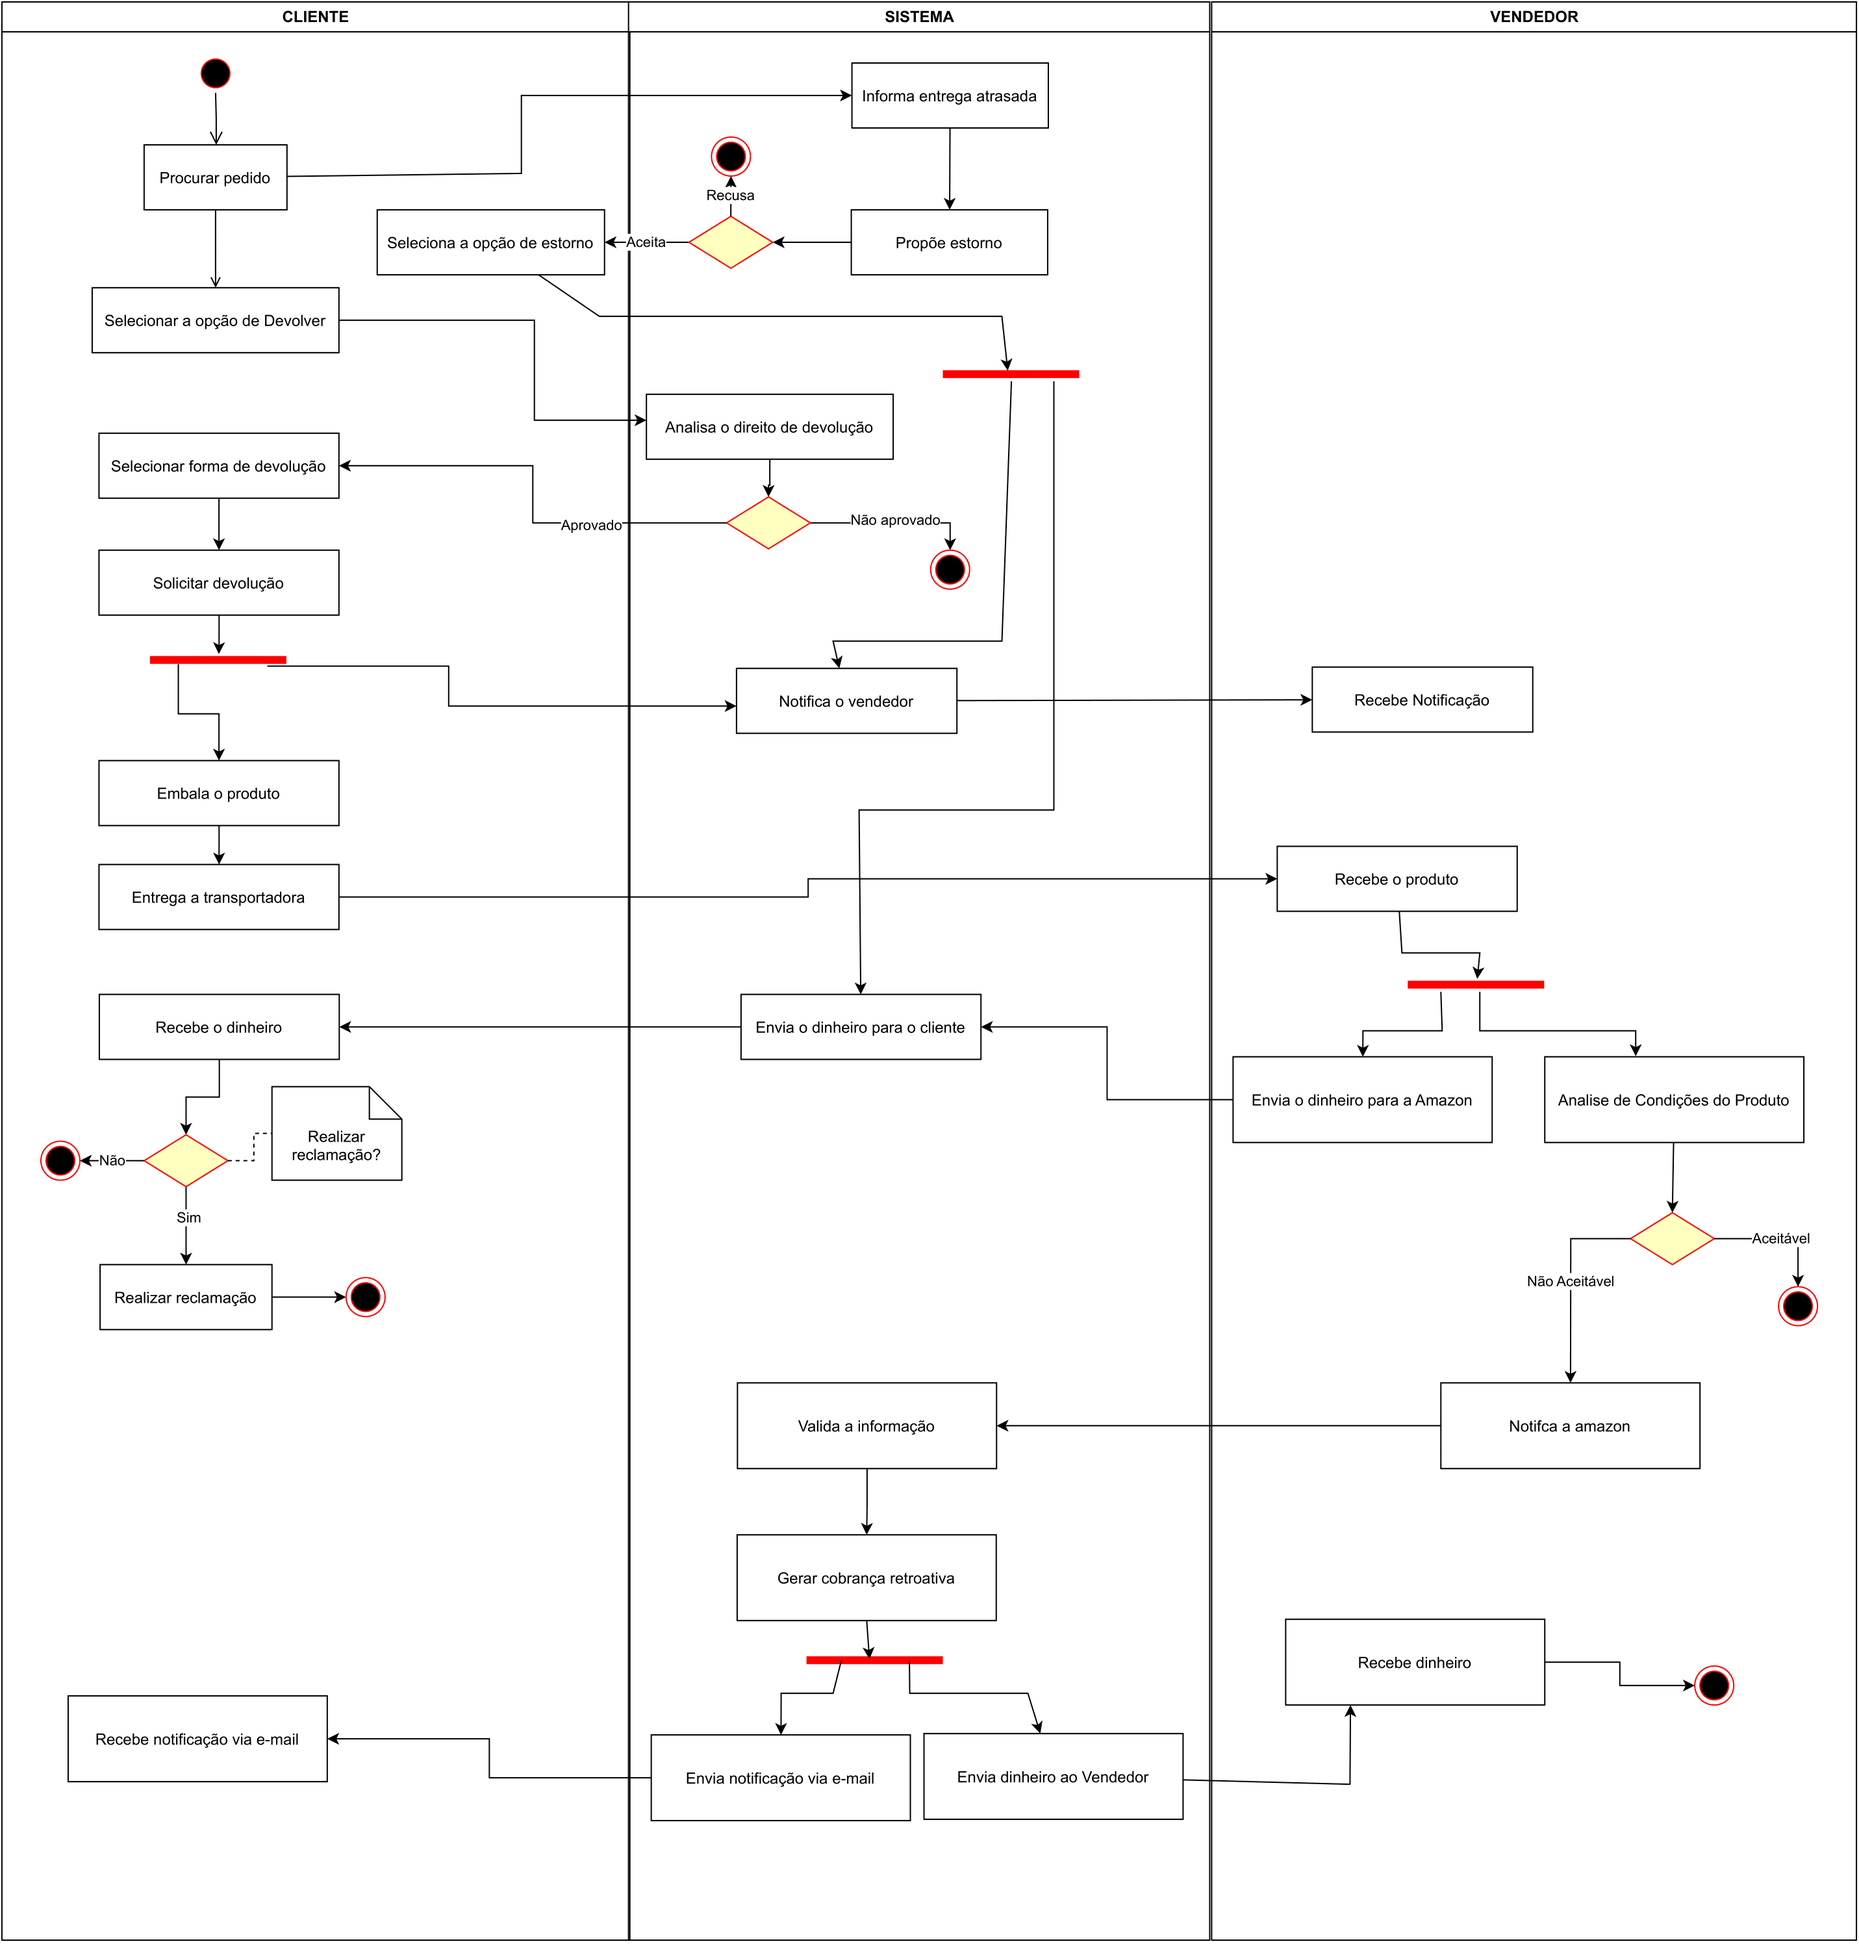
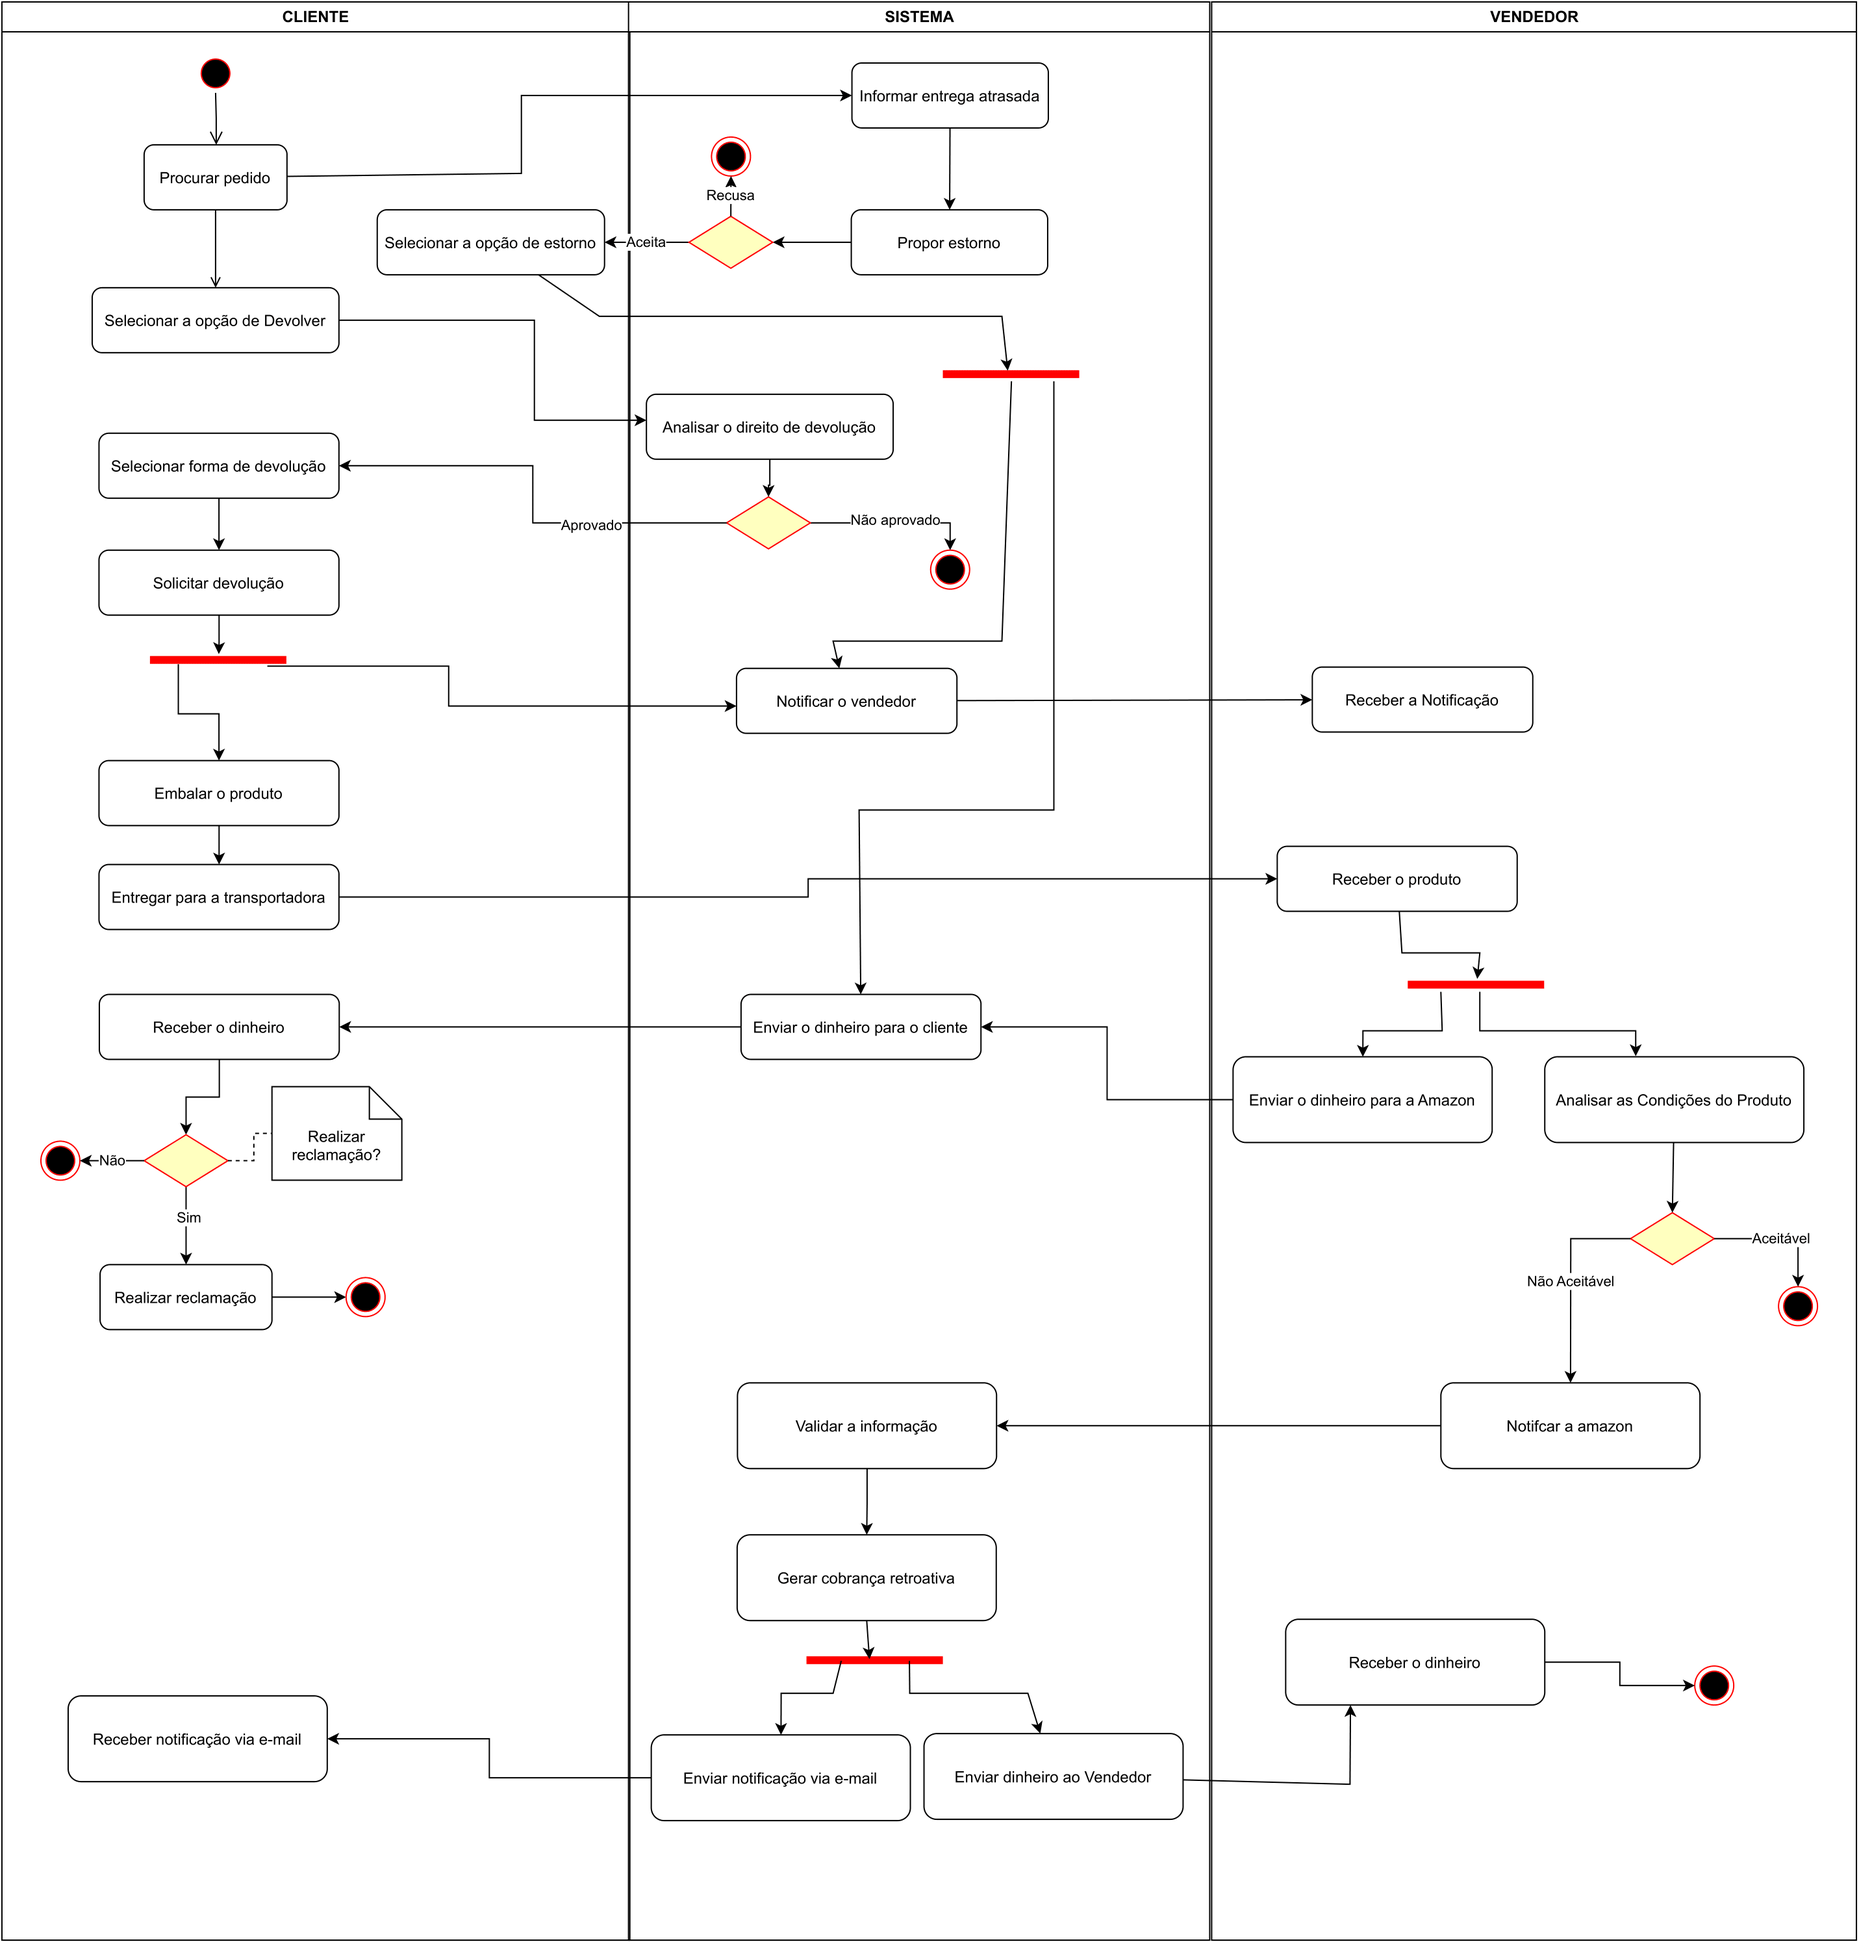
adicionando correções apontados pela professora

diff --git a/docs/Modelagem/diagramasDinamicos/diagramaAtividade.md b/docs/Modelagem/diagramasDinamicos/diagramaAtividade.md
@@ -40,6 +40,7 @@ Diante dessa necessidade, foi criado um diagrama de atividades com o propósito 
 
 ## Histórico de versão
 
-| Versão |    Data    |          Descrição           |                            Autor                            |                                  Revisor                                  |
-| :----: | :--------: | :--------------------------: | :---------------------------------------------------------: | :-----------------------------------------------------------------------: |
-|  1.0   | 05/10/2023 | Criação inicial do documento | Pedro Henrique Rodrigues, Gabriel Ferreira, Mateus de Almeida | PEDRO HELIAS CARLOS, HENRIQUE PUCCI DA SILVA PINTO, SAMUEL GOMES DE SOUZA |
+| Versão |    Data    |             Descrição             |                             Autor                             |                                  Revisor                                  |
+| :----: | :--------: | :-------------------------------: | :-----------------------------------------------------------: | :-----------------------------------------------------------------------: |
+|  1.0   | 05/10/2023 |   Criação inicial do documento    | Pedro Henrique Rodrigues, Gabriel Ferreira, Mateus de Almeida | PEDRO HELIAS CARLOS, HENRIQUE PUCCI DA SILVA PINTO, SAMUEL GOMES DE SOUZA |
+|  1.1   | 09/10/2023 | Revisão do diagrama de atividades |                   Pedro Henrique Rodrigues                    |                             Gabriel Ferreira                              |
